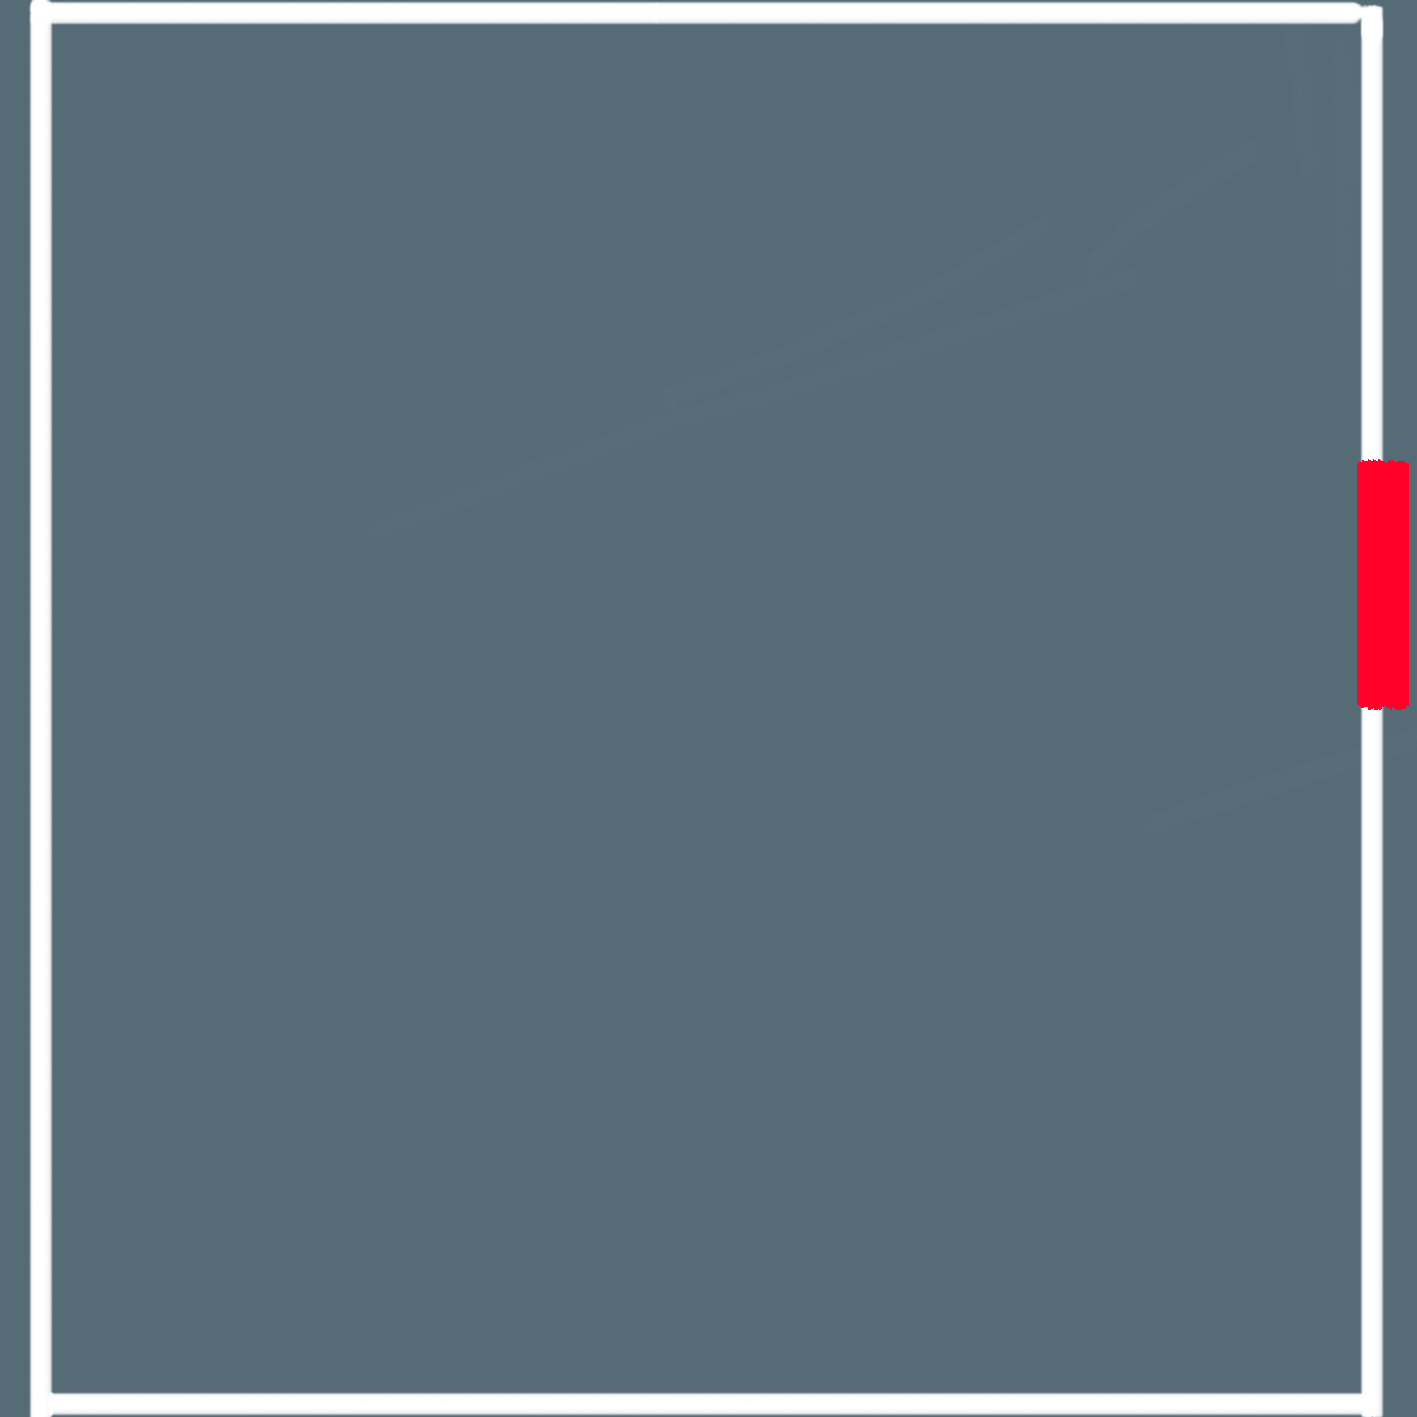
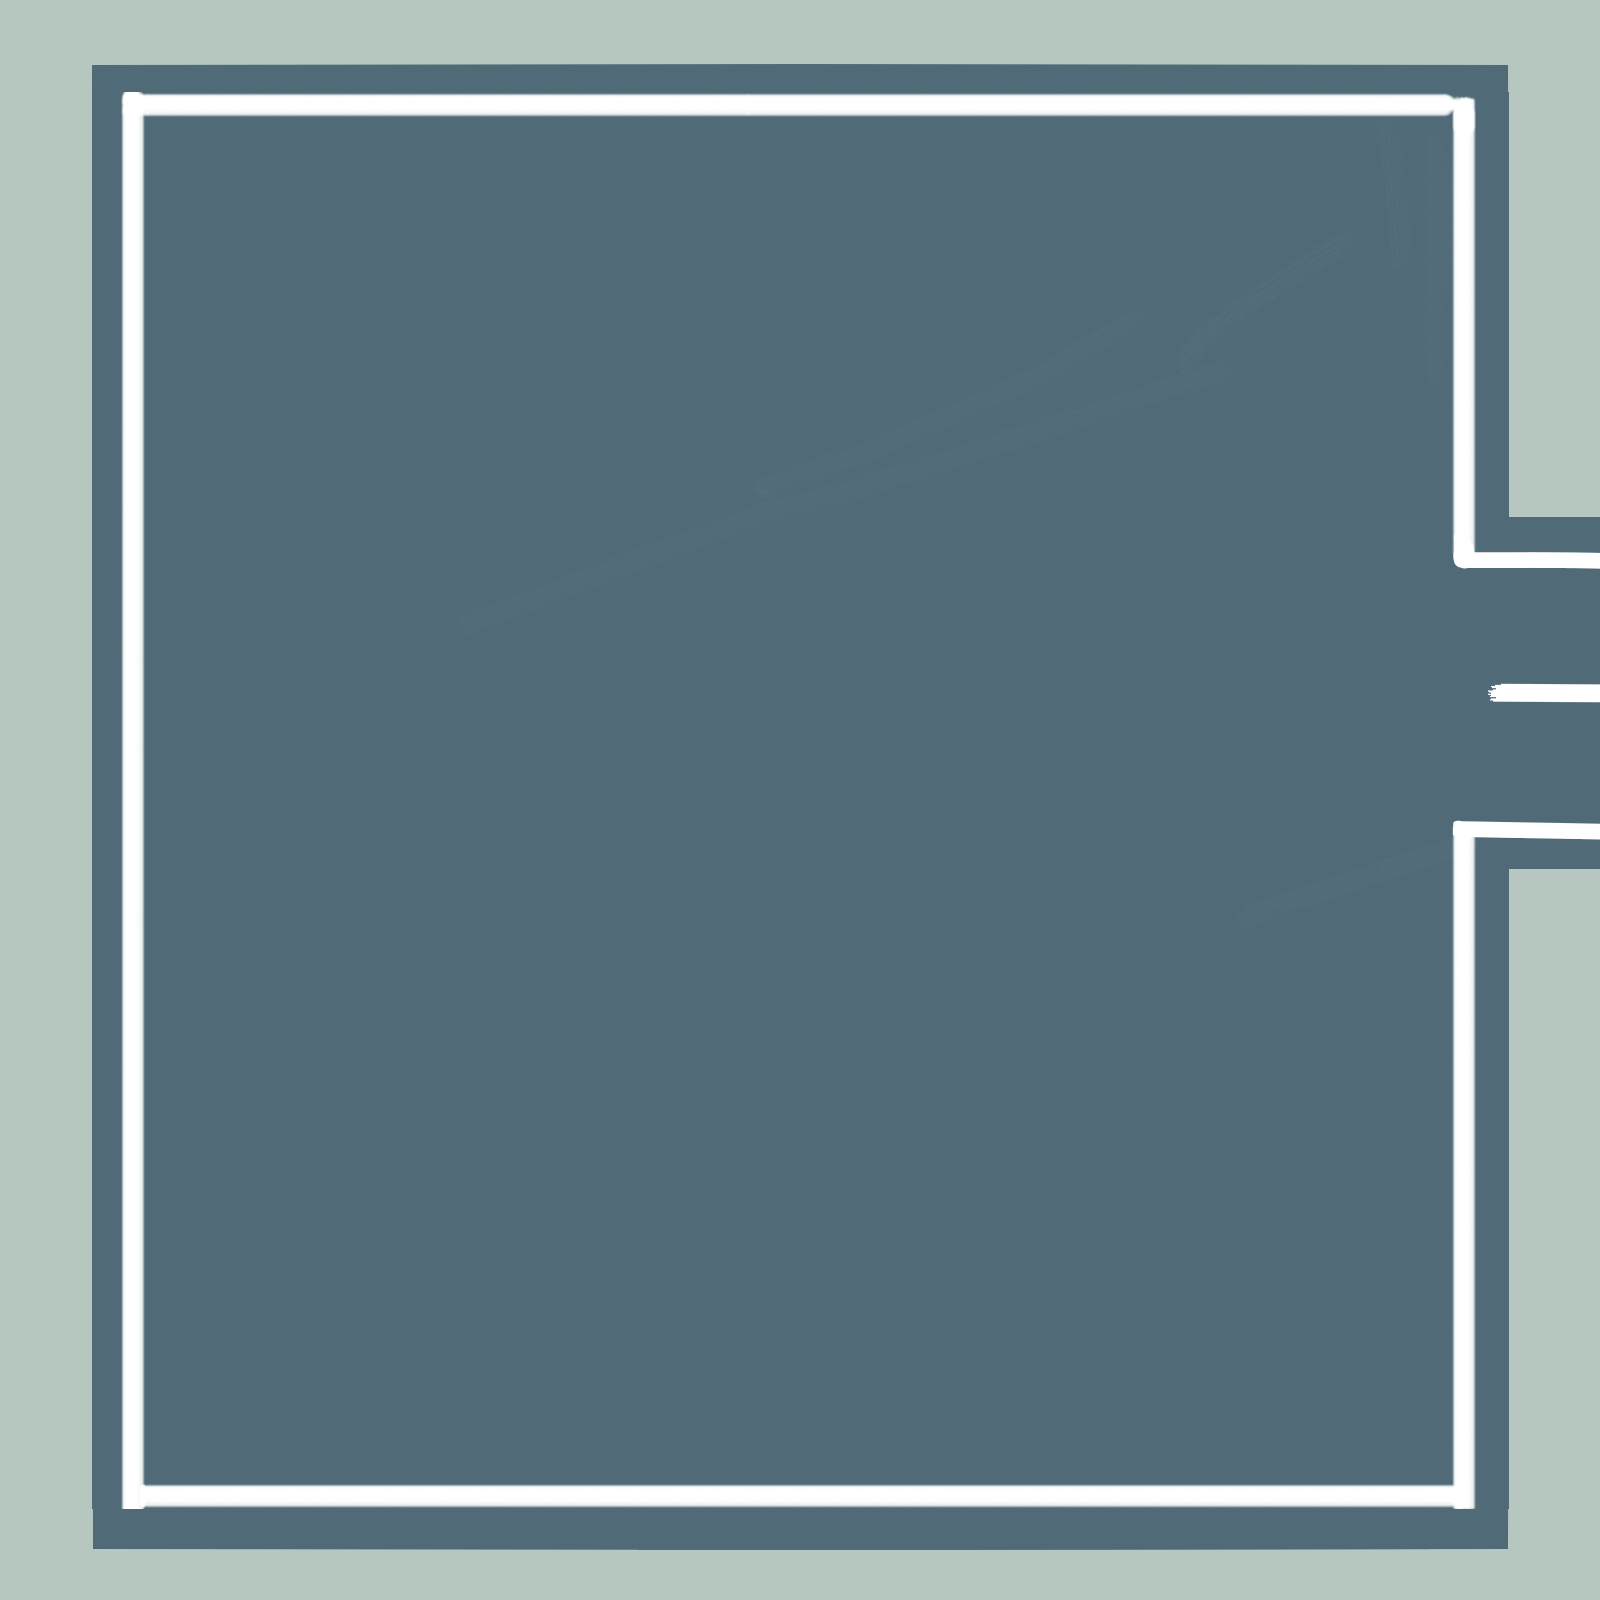
new grid image

Changed region(s): [[0.0, 0.0, 1.0, 1.0]]

diff --git a/src/MainPiece.java b/src/MainPiece.java
@@ -15,6 +15,7 @@ public class MainPiece extends Rectangle {
     private int midyPos;
     private String direction;
     private VehicleType type;
+    private final static int BUFFER = 80;
 
     /**
      * Constructor for MainPiece
@@ -74,7 +75,7 @@ public class MainPiece extends Rectangle {
 
         // places it in the determined position
         // if not it will default to the top
-        relocate(frontxPos, frontyPos);
+        relocate(frontxPos + BUFFER, frontyPos + BUFFER);
     }
 
     /**
@@ -134,7 +135,7 @@ public class MainPiece extends Rectangle {
         updateCoords();
         //System.out.println(newX);
 
-        relocate(newX, this.frontyPos);
+        relocate(newX + BUFFER, this.frontyPos + BUFFER);
 
     }
 
@@ -166,7 +167,7 @@ public class MainPiece extends Rectangle {
         updateCoords();
         //System.out.println(newX);
 
-        relocate(newX, this.frontyPos);
+        relocate(newX + BUFFER, this.frontyPos + BUFFER);
     }
 
     /**
@@ -197,7 +198,7 @@ public class MainPiece extends Rectangle {
         updateCoords();
         //System.out.println(newX);
 
-        relocate(this.frontxPos, newY);
+        relocate(this.frontxPos + BUFFER, newY + BUFFER);
     }
 
     /**
@@ -249,7 +250,7 @@ public class MainPiece extends Rectangle {
         updateCoords();
         //System.out.println(newX);
 
-        relocate(this.frontxPos, newY);
+        relocate(this.frontxPos + BUFFER, newY + BUFFER);
     }
 
     /**

diff --git a/src/RushHourApp.java b/src/RushHourApp.java
@@ -25,6 +25,7 @@ public class RushHourApp extends Application{
 
 
     public static final int TILE_SIZE = 100;
+    public static final int BUFFER = 80;
     public static final int WIDTH = 6;
     public static final int HEIGHT = 6;
     private boolean stopControls = false;
@@ -40,7 +41,7 @@ public class RushHourApp extends Application{
         Pane root = new Pane();
 
         // set size of it
-        root.setPrefSize(WIDTH* TILE_SIZE   , HEIGHT * TILE_SIZE);
+        root.setPrefSize(WIDTH* TILE_SIZE + 2*BUFFER, HEIGHT * TILE_SIZE + 2 * BUFFER);
         root.getChildren().add(c);
         ImageView imv = new ImageView();
         //Image titlepic = new Image(Options.class.getResourceAsStream("road.png"));
